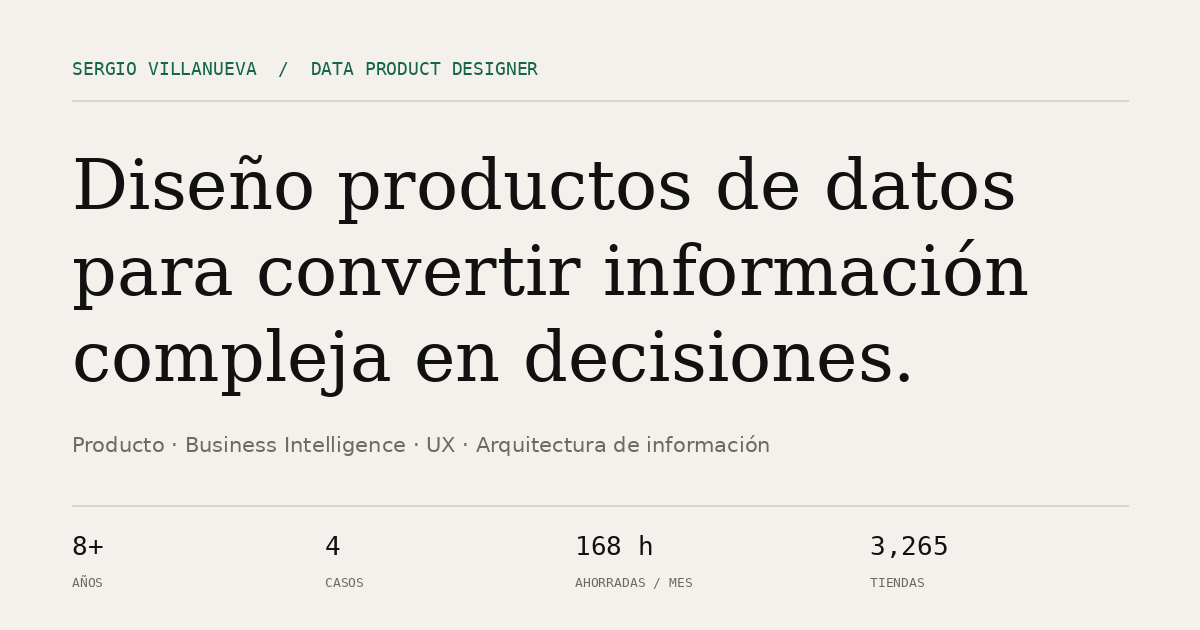
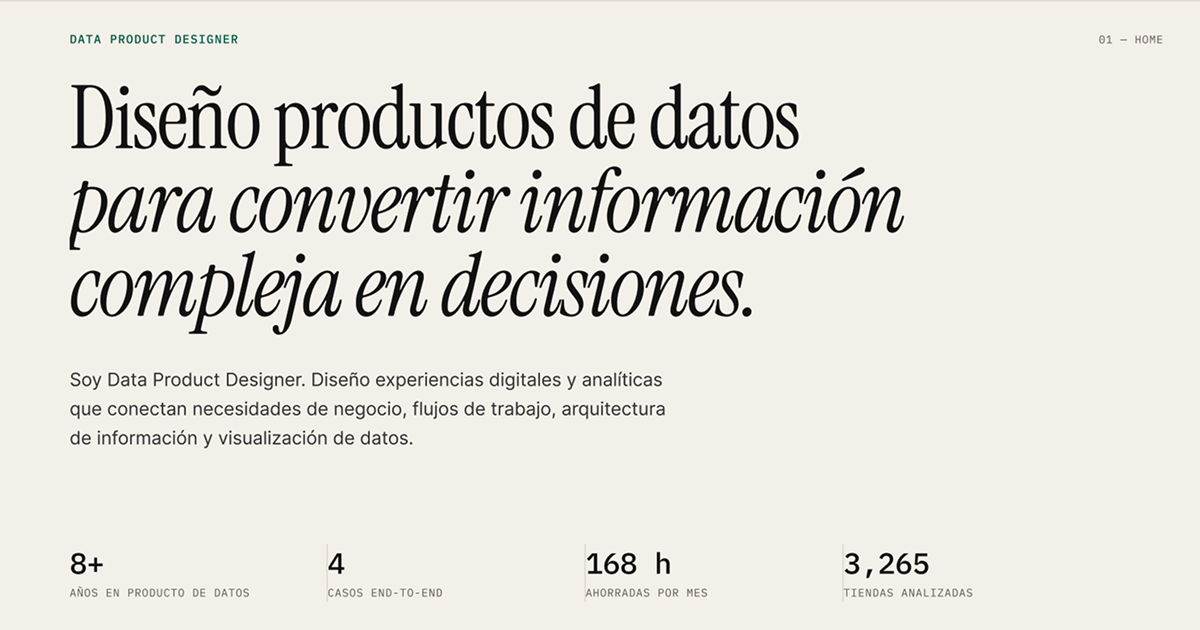
Checkpoint: cambios locales antes de sincronizar con Figma

diff --git a/src/content.ts b/src/content.ts
@@ -292,7 +292,7 @@ export const projects: CaseStudy[] = [
     objectives: [
       ["META", "Definir una prioridad común y defendible para asignar el presupuesto correctivo."],
       ["BASELINE", "La prioridad dependía de la reunión más influyente y de tableros regionales."],
-      ["PROYECCIÓN", "Reducir 3%: hasta $840 MM MXN sobre $28,000 MM MXN actuales o $1,560 MM MXN sobre $52,000 MM MXN en dos años."],
+      ["PROYECCIÓN", "Reducir 3%: hasta $840 M sobre $28,000 M MXN actuales"],
       ["MEDICIÓN", "Comparar gasto prioritizado, gasto ejecutado y calidad de las fuentes por tienda."],
     ],
     iterations: [
@@ -345,7 +345,7 @@ export const projects: CaseStudy[] = [
     ],
     impactStates: [
       ["OBJETIVO", "Una priorización consistente para decidir dónde invertir."],
-      ["PROYECCIÓN", "Hasta −3%: $840 MM MXN sobre $28,000 MM MXN o $1,560 MM MXN sobre $52,000 MM MXN."],
+      ["PROYECCIÓN", "Hasta −3%: $840 M MXN sobre $28,000 M MXN."],
       ["SIGUIENTE MEDIDA", "Gasto ejecutado, desviación presupuestal y cambio de riesgo por tienda."],
     ],
     findingsTitle: "Tres hallazgos que cambiaron el diseño.",
